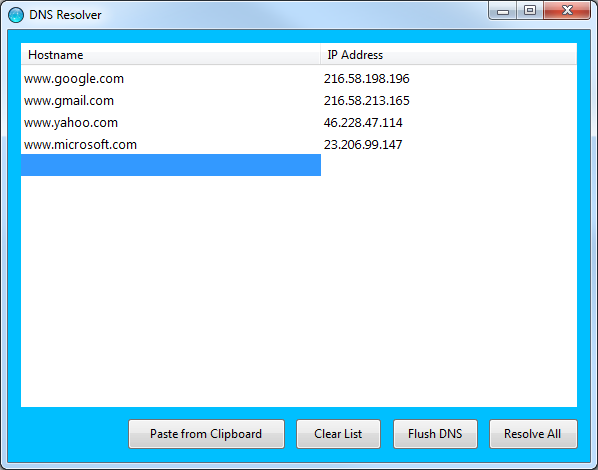
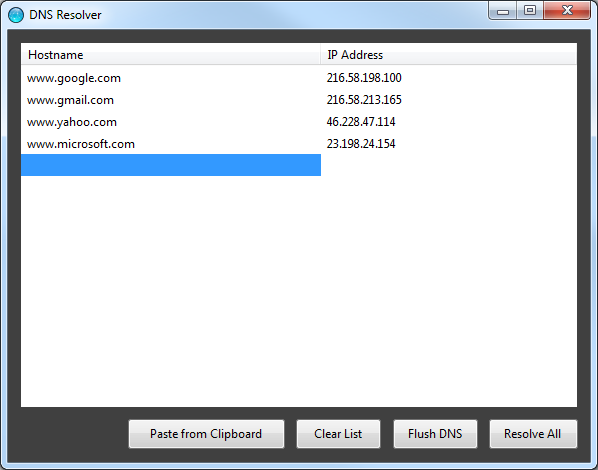
Styles

Changed region(s): [[0.0, 0.0596, 0.9933, 0.983], [0.5418, 0.1489, 0.6923, 0.3277]]

diff --git a/frmMain.Designer.cs b/frmMain.Designer.cs
@@ -69,8 +69,11 @@
             this.dgDnsEntries.Margin = new System.Windows.Forms.Padding(3, 4, 3, 4);
             this.dgDnsEntries.Name = "dgDnsEntries";
             this.dgDnsEntries.RowHeadersVisible = false;
-            dataGridViewCellStyle2.Font = new System.Drawing.Font("Segoe UI", 9.75F, System.Drawing.FontStyle.Regular, System.Drawing.GraphicsUnit.Point, ((byte)(0)));
+            dataGridViewCellStyle2.Font = new System.Drawing.Font("Segoe UI", 9F, System.Drawing.FontStyle.Regular, System.Drawing.GraphicsUnit.Point, ((byte)(0)));
+            dataGridViewCellStyle2.Padding = new System.Windows.Forms.Padding(3, 0, 0, 0);
             this.dgDnsEntries.RowsDefaultCellStyle = dataGridViewCellStyle2;
+            this.dgDnsEntries.RowTemplate.DefaultCellStyle.Font = new System.Drawing.Font("Segoe UI", 9F, System.Drawing.FontStyle.Regular, System.Drawing.GraphicsUnit.Point, ((byte)(0)));
+            this.dgDnsEntries.RowTemplate.DefaultCellStyle.Padding = new System.Windows.Forms.Padding(3, 0, 0, 0);
             this.dgDnsEntries.Size = new System.Drawing.Size(556, 364);
             this.dgDnsEntries.TabIndex = 0;
             this.dgDnsEntries.CellValueChanged += new System.Windows.Forms.DataGridViewCellEventHandler(this.dgDnsEntries_CellValueChanged);
@@ -150,7 +153,7 @@
             // 
             this.AutoScaleDimensions = new System.Drawing.SizeF(7F, 15F);
             this.AutoScaleMode = System.Windows.Forms.AutoScaleMode.Font;
-            this.BackColor = System.Drawing.Color.DeepSkyBlue;
+            this.BackColor = System.Drawing.Color.FromArgb(((int)(((byte)(64)))), ((int)(((byte)(64)))), ((int)(((byte)(64)))));
             this.ClientSize = new System.Drawing.Size(582, 432);
             this.Controls.Add(this.btnPasteFromClipboard);
             this.Controls.Add(this.btnFlushDNS);
